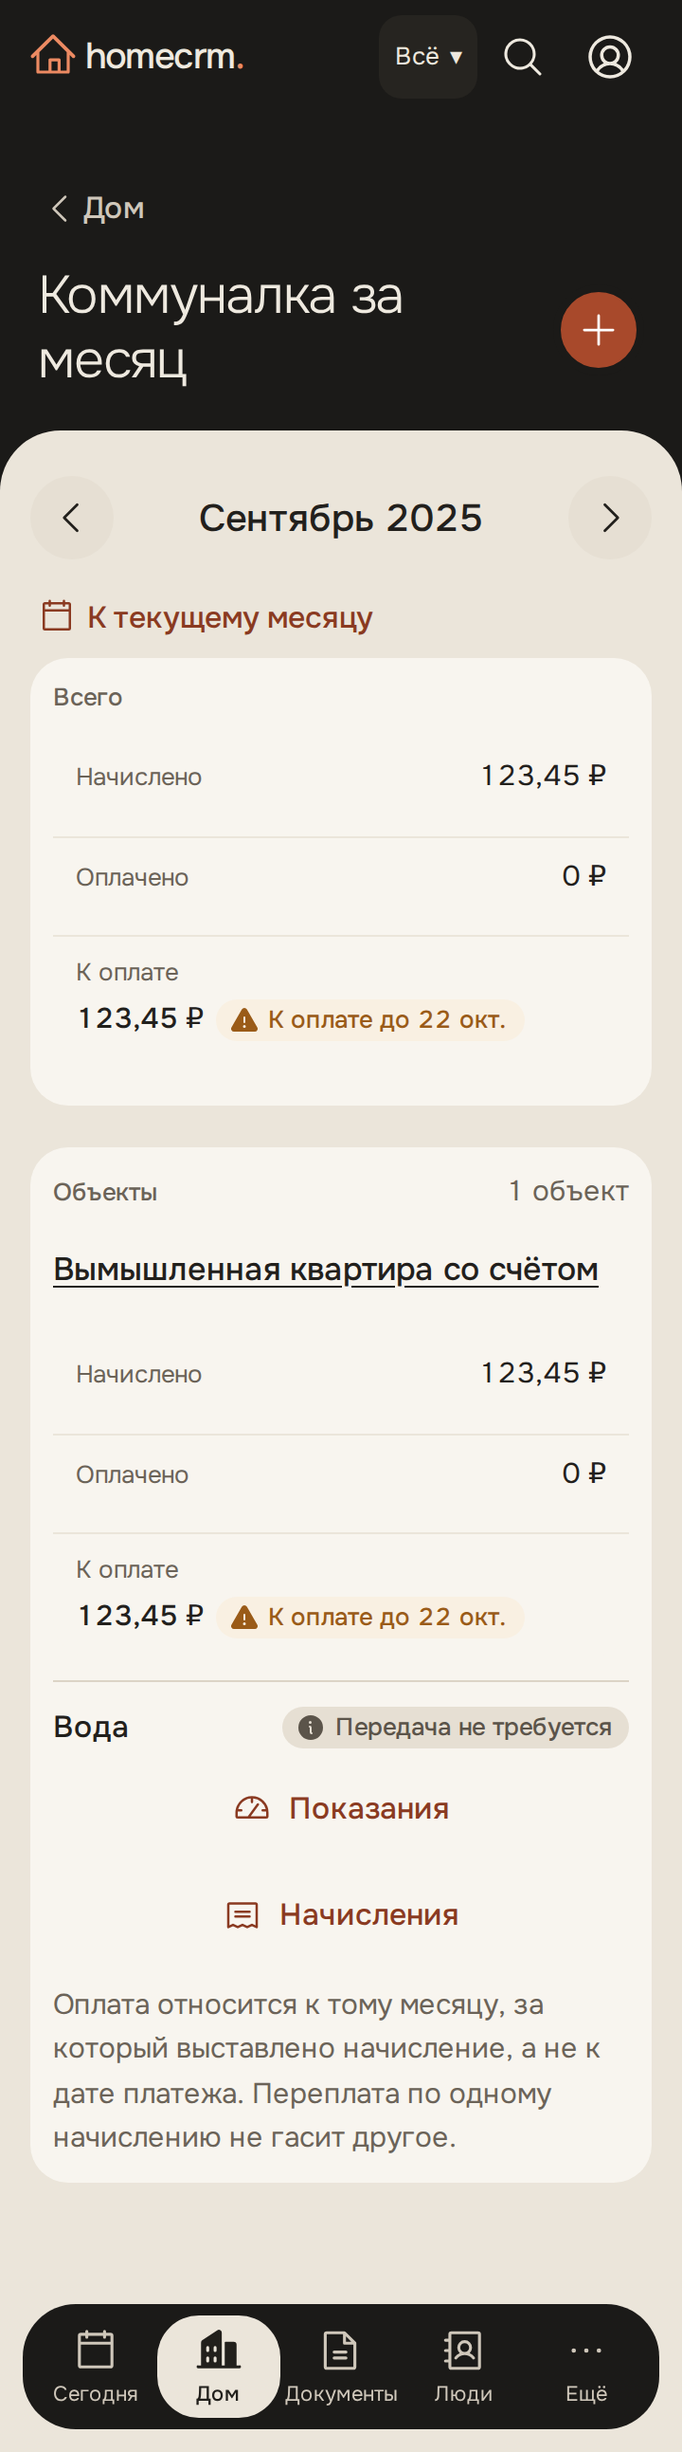
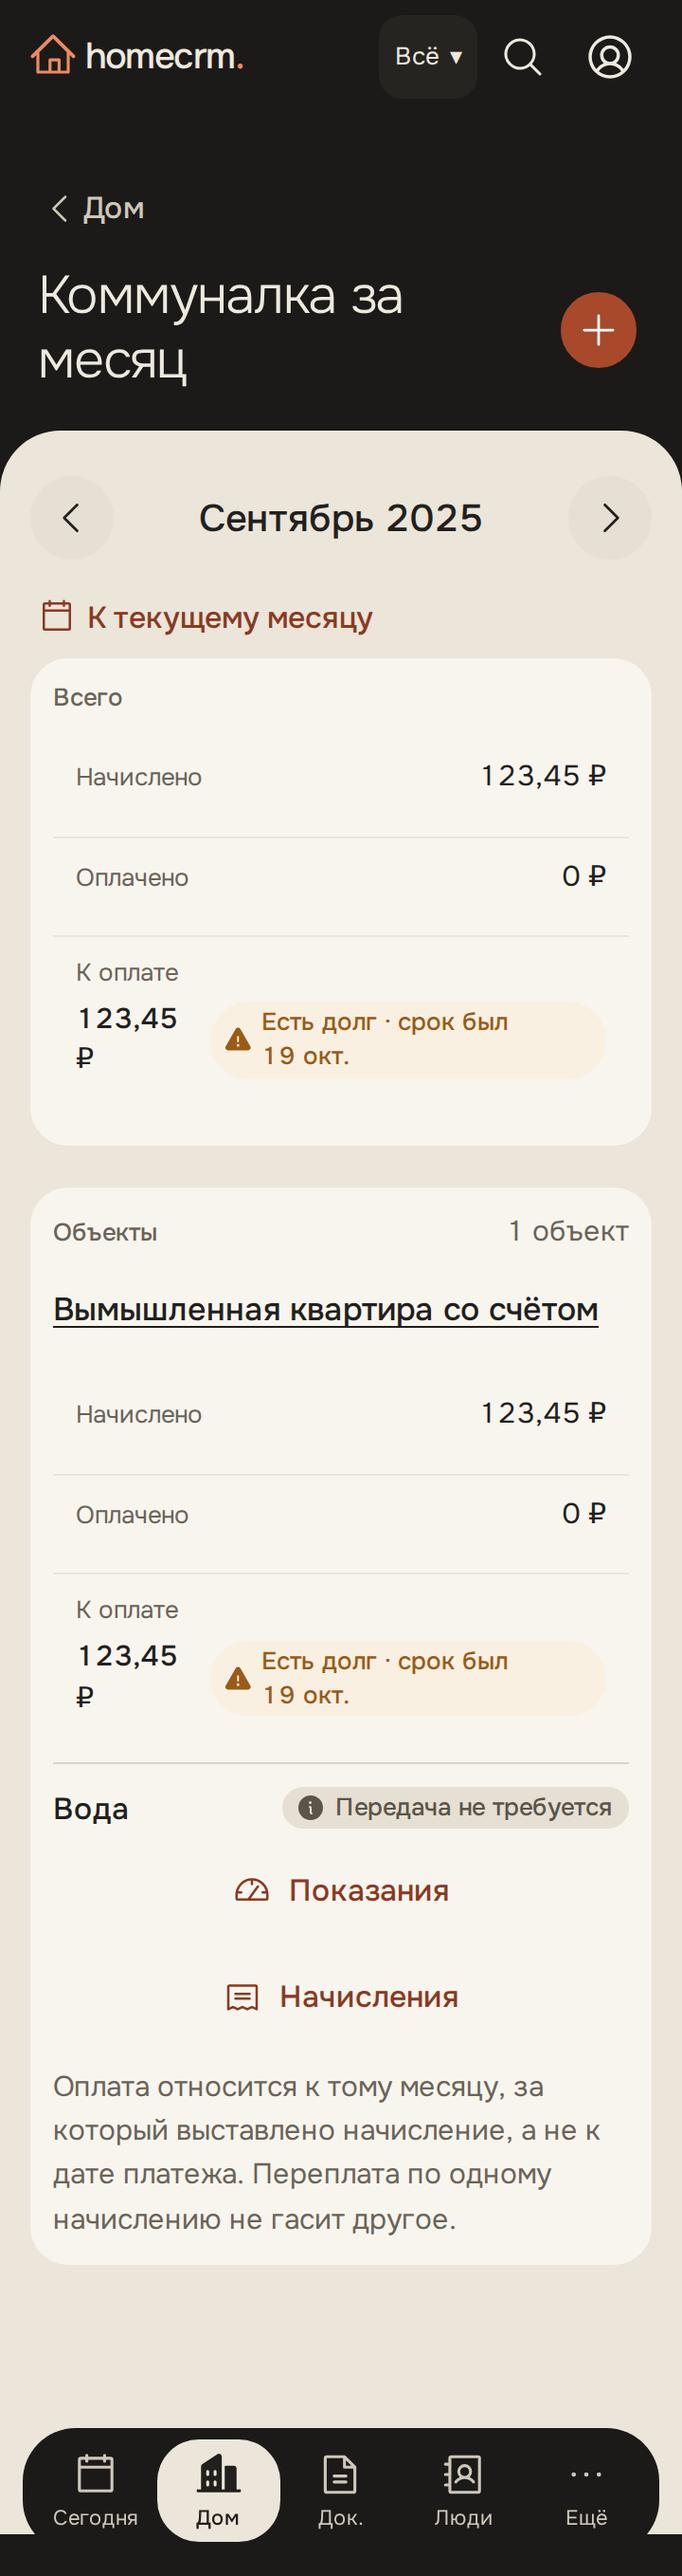
D20a-2: учесть все неоплаченные месяцы и уточнить прошедший срок

diff --git a/apps/server/src/utilities/analytics.ts b/apps/server/src/utilities/analytics.ts
@@ -48,7 +48,7 @@ export function analyticsRoutes(route: DataRoute) {
       AND (${scope}='all' OR o.space_kind::text=${scope})
       AND (${householdId ?? null}::uuid IS NULL OR o.space_kind='personal' OR o.space_id=${householdId ?? null}::uuid)`;
     const home = householdId ?? [...account.viewer.memberships.keys()].sort()[0];
-    // Главная и месячный экран читают один и тот же месяц: самый ранний с неоплаченным.
+    // Переход с главной открывает самый ранний месяц с неоплаченным.
     const unpaid = requested
       ? undefined
       : (
@@ -89,6 +89,7 @@ export function analyticsRoutes(route: DataRoute) {
       accounts: AccountStatus[];
       dueOn: string | null;
       overdue: boolean;
+      payable: string;
     };
     const { rows } = await tx.execute<MonthRow>(sql`
       WITH visible_objects AS MATERIALIZED (SELECT o.* FROM objects o WHERE ${objectFilter}),
@@ -97,12 +98,15 @@ export function analyticsRoutes(route: DataRoute) {
         LEFT JOIN LATERAL (SELECT h.time_zone FROM space_members m JOIN spaces h ON h.id=m.space_id WHERE m.account_id=p.assignee_id AND m.left_at IS NULL ORDER BY h.id LIMIT 1) hs ON true
         WHERE a.deleted_at IS NULL),
       payments AS MATERIALIZED (SELECT parent_id,sum(amount_cents) AS paid FROM utility_payments WHERE deleted_at IS NULL AND cancelled_at IS NULL GROUP BY parent_id),
-      charges AS MATERIALIZED (SELECT a.parent_id,sum(c.total_cents) AS charged,sum(coalesce(p.paid,0)) AS paid,
-        sum(greatest(c.total_cents-coalesce(p.paid,0),0)) AS remaining,
-        min(c.due_on) FILTER (WHERE c.total_cents>coalesce(p.paid,0)) AS due_on,
-        bool_or(c.total_cents>coalesce(p.paid,0) AND c.due_on<(${now.toISOString()}::timestamptz AT TIME ZONE a.zone)::date) AS overdue
+      charges AS MATERIALIZED (SELECT a.parent_id,
+        sum(c.total_cents) FILTER (WHERE c.period=${month}) AS charged,
+        sum(coalesce(p.paid,0)) FILTER (WHERE c.period=${month}) AS paid,
+        sum(greatest(c.total_cents-coalesce(p.paid,0),0)) FILTER (WHERE c.period=${month}) AS remaining,
+        min(c.due_on) FILTER (WHERE c.period=${month} AND c.total_cents>coalesce(p.paid,0)) AS due_on,
+        bool_or(c.total_cents>coalesce(p.paid,0) AND c.due_on<(${now.toISOString()}::timestamptz AT TIME ZONE a.zone)::date) FILTER (WHERE c.period=${month}) AS overdue,
+        sum(greatest(c.total_cents-coalesce(p.paid,0),0)) FILTER (WHERE c.due_on<=(${now.toISOString()}::timestamptz AT TIME ZONE a.zone)::date+7) AS payable
         FROM utility_charges c JOIN accounts a ON a.id=c.parent_id LEFT JOIN payments p ON p.parent_id=c.id
-        WHERE c.period=${month} AND c.deleted_at IS NULL AND c.cancelled_at IS NULL GROUP BY a.parent_id),
+        WHERE c.deleted_at IS NULL AND c.cancelled_at IS NULL GROUP BY a.parent_id),
       meters AS MATERIALIZED (SELECT m.id,m.utility_account_id FROM meters m WHERE m.deleted_at IS NULL AND m.is_active),
       readings AS MATERIALIZED (SELECT r.parent_id,r.occurred_on::text AS date,r.transmitted_at IS NOT NULL AS transmitted FROM meter_readings r WHERE r.deleted_at IS NULL
         AND r.occurred_on>=(${month}||'-01')::date AND r.occurred_on<(${month}||'-01')::date+interval '2 months'),
@@ -115,7 +119,7 @@ export function analyticsRoutes(route: DataRoute) {
         FROM accounts a GROUP BY a.parent_id)
       SELECT o.id,o.title,o.space_id AS "spaceId",o.space_kind AS "spaceKind",o.audience,o.assignee_id AS "assigneeId",
         coalesce(c.charged,0)::text AS charged,coalesce(c.paid,0)::text AS paid,coalesce(c.remaining,0)::text AS remaining,
-        c.due_on::text AS "dueOn",coalesce(c.overdue,false) AS overdue,s.accounts
+        c.due_on::text AS "dueOn",coalesce(c.overdue,false) AS overdue,coalesce(c.payable,0)::text AS payable,s.accounts
       FROM visible_objects o LEFT JOIN charges c ON c.parent_id=o.id JOIN statuses s ON s.parent_id=o.id ORDER BY o.title,o.id`);
     const windowsByRule = new Map<
       string,
@@ -197,6 +201,8 @@ export function analyticsRoutes(route: DataRoute) {
     return {
       month,
       objects,
+      // Плашка на главной охватывает все месяцы: просрочено, сейчас и ближайшие 7 дней.
+      payableCents: safeCents(visible.reduce((sum, row) => sum + BigInt(row.payable), 0n)),
       totals: {
         ...money(
           visible.reduce<Money>(

diff --git a/apps/web/e2e/app/sections-ux.e2e.ts b/apps/web/e2e/app/sections-ux.e2e.ts
@@ -58,7 +58,7 @@ test('D20a-10: радар и связи оставляют название ши
   await checkApp(page, info, 'D20a-10-links');
 });
 
-test('D20a-11: сумма на главной ведёт к тому же неоплаченному месяцу со сроком', async ({
+test('D20a-11: плашка суммирует два месяца и открывает ранний; после срока — дата прошедшей оплаты', async ({
   page,
   family,
 }, info) => {
@@ -76,19 +76,30 @@ test('D20a-11: сумма на главной ведёт к тому же нео
       await api.post(`accounts/${account.id}/charges`, {
         period,
         totalCents: 12345,
+        dueOn: homeDate(-1),
+      })
+    ).status,
+  ).toBe(201);
+  expect(
+    (
+      await api.post(`accounts/${account.id}/charges`, {
+        period: '2025-10',
+        totalCents: 9000,
         dueOn: homeDate(3),
       })
     ).status,
   ).toBe(201);
+  await recalc(family);
   await signInAs(page, family, 'adult');
-  const hint = page.getByRole('link', { name: /123,45\s₽ к оплате/ });
+  const hint = page.getByRole('link', { name: /213,45\s₽ к оплате/ });
   await expect(hint).toBeVisible();
   await hint.click();
   await expect(page).toHaveURL(/month=2025-09/);
   await expect(page.locator('.month-switch__label')).toHaveText('Сентябрь 2025');
   await expect(page.getByText('Есть долг', { exact: true })).toHaveCount(0);
   await expect(page.locator('.month-object')).toHaveCount(1);
-  await expect(page.locator('.month-object .status').first()).toHaveText(/К оплате до/);
+  await expect(page.locator('.month-object .status').first()).toHaveText(/Есть долг · срок был \d/);
+  await expect(page.getByText(/Есть долг до/)).toHaveCount(0);
   await expect(page.locator('.month-object')).toContainText(/123,45\s₽/);
   await checkApp(page, info, 'D20a-11-month');
   await page.goto('#/more');

diff --git a/apps/web/e2e/app/today-ux.e2e.ts b/apps/web/e2e/app/today-ux.e2e.ts
@@ -342,16 +342,21 @@ test('D20a 3: CLS при медленной загрузке Сегодня ≤ 
     }).observe({ type: 'layout-shift', buffered: true });
   });
   await page.route(
-    /\/api\/(?:tasks\/today|radar|objects|notifications\/settings)/,
+    /\/api\/(?:tasks\/today|deadlines|utilities\/month|objects|notifications\/settings)/,
     async (route) => {
       await new Promise((done) =>
-        setTimeout(done, route.request().url().includes('notifications/settings') ? 1800 : 900),
+        setTimeout(
+          done,
+          /notifications\/settings|utilities\/month/.test(route.request().url()) ? 1800 : 900,
+        ),
       );
       await route.continue();
     },
   );
   await page.reload();
   await expect(page.locator('.today-metric__skeleton').first()).toBeVisible();
+  await expect(page.locator('.today-hints')).toHaveAttribute('aria-busy', 'true');
+  await expect(page.locator('.today-hints__skeleton')).toBeVisible();
   const before = await page.locator('.today-tabs').boundingBox();
   await expect(page.locator('.today-metric__skeleton')).toHaveCount(0);
   await expect(page.locator('.today-hints[aria-busy="true"]')).toHaveCount(0);

diff --git a/apps/web/src/utilities/utilities.test.ts b/apps/web/src/utilities/utilities.test.ts
@@ -33,6 +33,7 @@ describe('ответы месяца и аналитики', () => {
   it('месяц разбирается как в контракте', () => {
     const parsed = MonthOverview.parse({
       month: '2026-10',
+      payableCents: 15000,
       objects: [
         {
           id: 'a',
@@ -49,12 +50,14 @@ describe('ответы месяца и аналитики', () => {
       totals: { chargedCents: 10000, paidCents: 4000, remainingCents: 6000 },
     });
     expect(parsed.objects[0]?.accounts[0]?.status).toBe('not_transmitted');
+    expect(parsed.payableCents).toBe(15000);
   });
 
   it('неизвестный статус отвергается: экран не гадает', () => {
     expect(() =>
       MonthOverview.parse({
         month: '2026-10',
+        payableCents: 0,
         objects: [
           {
             id: 'a',

diff --git a/apps/web/src/tasks/TodayHero.tsx b/apps/web/src/tasks/TodayHero.tsx
@@ -99,7 +99,7 @@ export function TodayHero({
   // Только свежие видимые строки радара; неизвестные суммы и даты не подменяем нулём.
   const ready = radar.status === 'ready' && !radar.error && !radar.recalculating;
   const hintsBusy = (!ready && !radar.error) || utilities.isPending;
-  const due = utilities.error ? 0 : (utilities.data?.totals.remainingCents ?? 0);
+  const due = utilities.error ? 0 : (utilities.data?.payableCents ?? 0);
   const monthParams = new URLSearchParams();
   if (utilities.data) monthParams.set('month', utilities.data.month);
   if (house) monthParams.set('householdId', house);

diff --git a/apps/web/src/utilities/MonthScreen.tsx b/apps/web/src/utilities/MonthScreen.tsx
@@ -39,7 +39,9 @@ function Money({
           {remainingCents > 0 ? (
             <Status tone="warning">
               {overdue ? 'Есть долг' : 'К оплате'}
-              {dueOn ? ` до ${formatShortDate(dueOn as DateOnly)}` : ''}
+              {dueOn
+                ? `${overdue ? ' · срок был' : ' до'} ${formatShortDate(dueOn as DateOnly)}`
+                : ''}
             </Status>
           ) : null}
         </dd>

diff --git a/apps/web/src/utilities/api.ts b/apps/web/src/utilities/api.ts
@@ -43,6 +43,7 @@ export type MonthObject = z.infer<typeof MonthObject>;
 
 export const MonthOverview = z.object({
   month: z.string(),
+  payableCents: Cents,
   objects: z.array(MonthObject),
   totals: Money,
 });

diff --git a/docs/month-documents-api.md b/docs/month-documents-api.md
@@ -9,6 +9,7 @@
 ```json
 {
   "month": "2026-10",
+  "payableCents": 6000,
   "objects": [{
     "id": "UUID", "title": "Вымышленная квартира",
     "chargedCents": 10000, "paidCents": 4000, "remainingCents": 6000,
@@ -18,7 +19,7 @@
 }
 ```
 
-`month` необязателен: без него выбирается самый ранний месяц с неоплаченным начислением, иначе — текущий месяц в поясе дома. Этот ответ используют и сумма на «Сегодня», и месячный экран. Фильтры: `scope=all|personal|household` (по умолчанию `all`), `householdId` (общее выбранного дома и видимое личное; чужой дом — 404).
+`month` необязателен: без него выбирается самый ранний месяц с неоплаченным начислением, иначе — текущий месяц в поясе дома. Для плашки на «Сегодня» поле `payableCents` содержит остатки всех неоплаченных начислений во всех месяцах со сроком до сегодняшней местной даты + 7 дней включительно, в том же пространстве и доме. Месячные `objects` и `totals` относятся только к выбранному месяцу; ссылка плашки ведёт на самый ранний неоплаченный месяц. Переплата одного начисления не гасит другое, отменённое и удалённое не учитывается. Фильтры: `scope=all|personal|household` (по умолчанию `all`), `householdId` (общее выбранного дома и видимое личное; чужой дом — 404).
 
 `objects[]` и `totals` дополнительно содержат `dueOn` (ближайшая дата неоплаченного, иначе `null`) и `overdue`: `true` только если дата оплаты уже прошла в часовом поясе дома объекта. В сам день оплаты долга ещё нет. Возвращаются видимые живые объекты с живыми лицевыми счетами; объектов без счетов нет.
 
